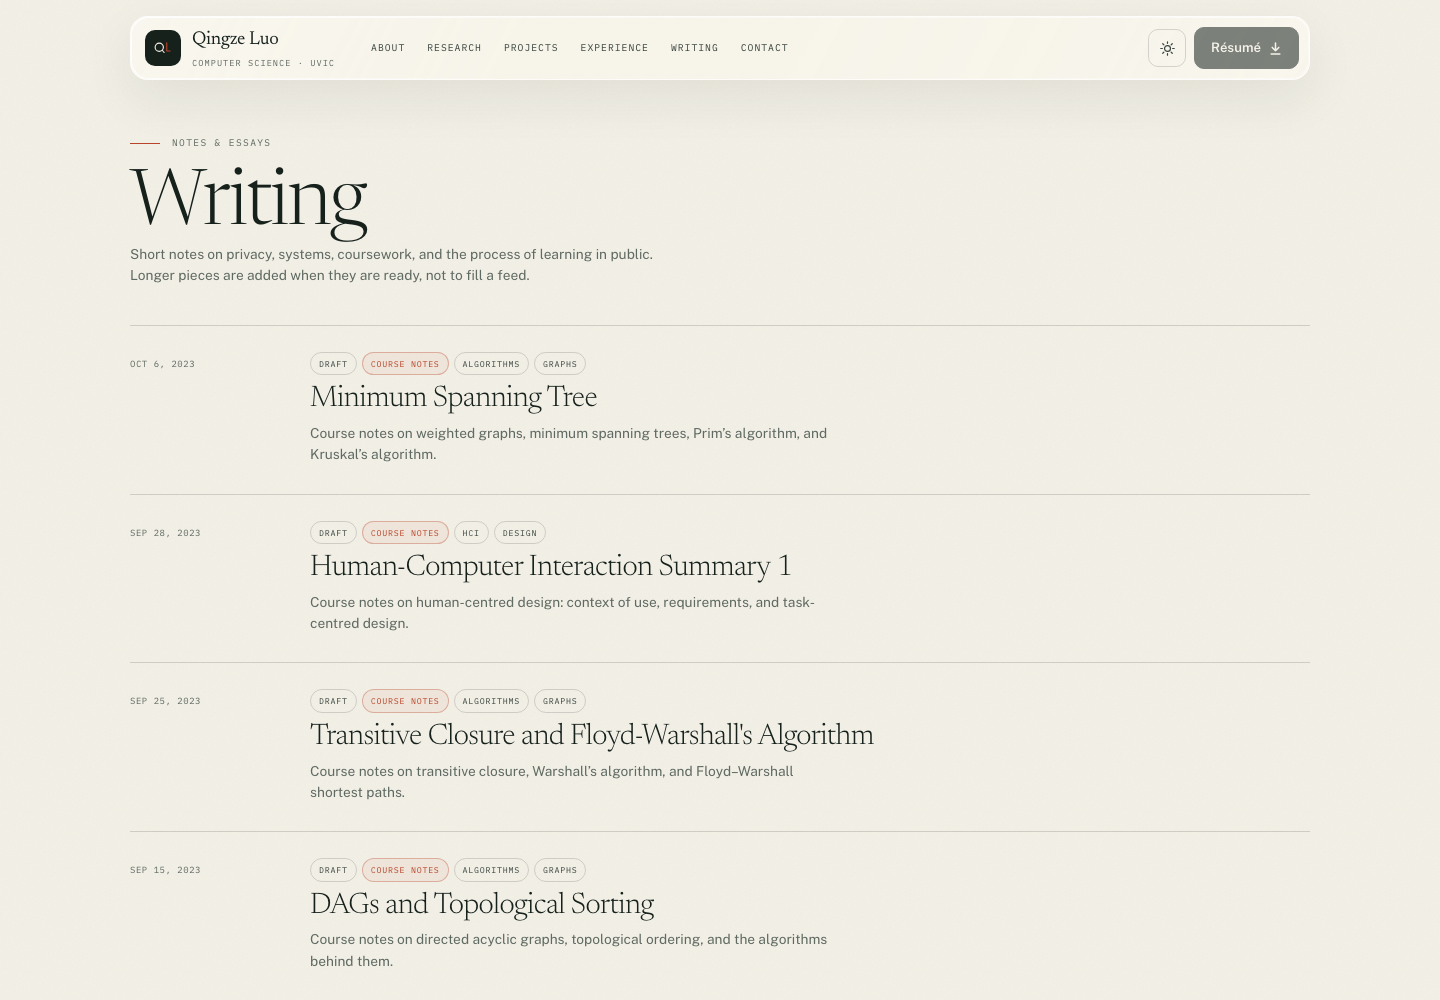
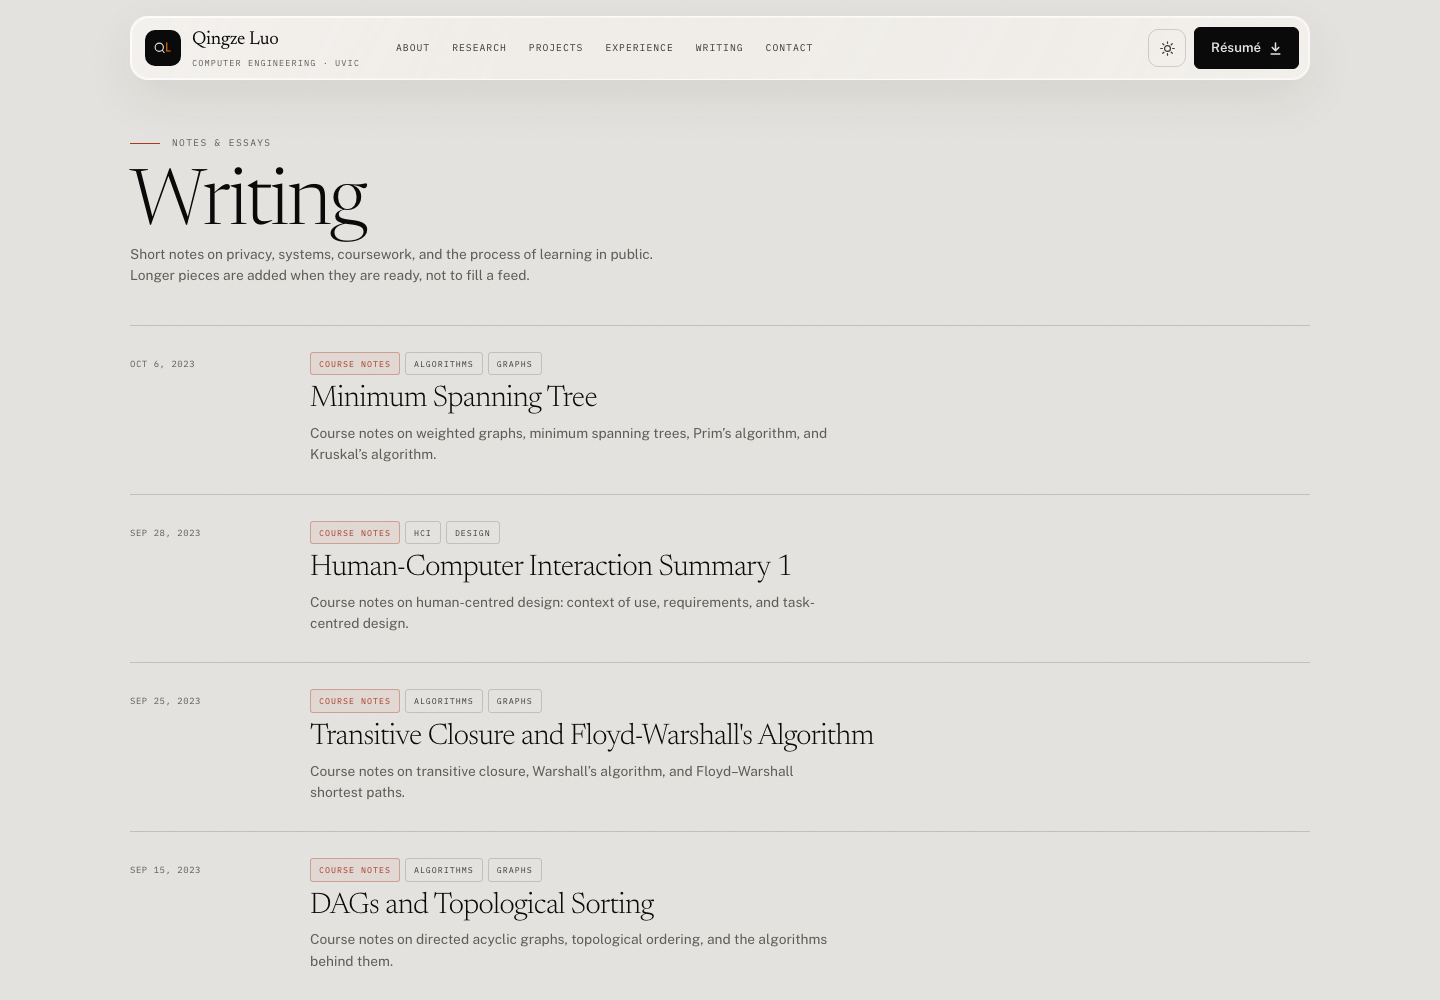
Publish the four 2023 course notes

diff --git a/src/content/blog/human-computer-interaction-summary-1.md b/src/content/blog/human-computer-interaction-summary-1.md
@@ -6,12 +6,12 @@ tags:
   - HCI
   - Design
 courseNotes: true
-draft: true
+draft: false
 ---
 
 ## In the Human-Centered design process
 
-After understanding and specify context of use, the specify user requirements:
+After understanding and specifying the context of use, specify the user requirements:
 
 - Functional requirements (what the interface will do)
 - Non-functional requirements (constraints)
@@ -27,7 +27,7 @@ After understanding and specify context of use, the specify user requirements:
 - Allows users to verify and contribute towards the development.
 - Overall advancing our goal to build usable system and one that meets the needs of people.
 
-## Requirements Gathering and communication:
+## Requirements gathering and communication:
 
 - Happens iteratively and could be gathered from different stages of HCD process.
 - Over a period of time, requirements could change completely. For example, our requirements from our smartphone today are very different from early phones such as landline phone and early cell phones.
@@ -37,7 +37,7 @@ After understanding and specify context of use, the specify user requirements:
 - Functional (what people need)
     1.  Describe what the product will do.
     2.  E.g., new video game
-    3.  Client wants a beginner level squash video game that supports signle or two-players.
+    3.  Client wants a beginner level squash video game that supports single or two players.
     4.  Has to capture player data continuously.
 - Non-functional (what people expect)
     1.  Describe the constraints (physical, logical, semantic, culture, technical) and aesthetics style.
@@ -74,8 +74,8 @@ After understanding and specify context of use, the specify user requirements:
 4. Say who the users are.  
     a. Helps the designer understand who will be using the system, how and their context of use.
 5. As a set, cover a range of possibilities.  
-    a. The potential users of the systems-primary occasional and least likely to use the system.  
-    b. Types of tasks – routine important but infrequent, unexpected, or rarely performed.
+    a. The potential users of the system: primary, occasional, and least likely to use it.  
+    b. Types of tasks — routine, important but infrequent, unexpected, or rarely performed.
 
 ## Which user groups will be addressed by the interface?
 

diff --git a/src/content/blog/dags-and-topological-sorting.md b/src/content/blog/dags-and-topological-sorting.md
@@ -6,7 +6,7 @@ tags:
   - Algorithms
   - Graphs
 courseNotes: true
-draft: true
+draft: false
 ---
 
 ## DAG
@@ -52,21 +52,21 @@ There are two commonly used algorithms for performing topological sorting on a D
 
     ```
     function topologicalSort(graph):
-    initialize an empty list for the topological order
-    initialize a set to keep track of visited nodes
+        order = []
+        visited = set()
 
         for each node in graph:
             if node is not visited:
-                visit(node, topological order, visited)
+                visit(node, order, visited)
 
-        return reverse of the topological order list
+        return reverse(order)
 
-    function visit(node, topological order, visited):
+    function visit(node, order, visited):
         mark node as visited
         for each neighbor of node:
-        if neighbor is not visited:
-        visit(neighbor, topological order, visited)
-        append node to the topological order list
+            if neighbor is not visited:
+                visit(neighbor, order, visited)
+        append node to order
     ```
 
 2. **Breadth-First Search (BFS) Algorithm**:
@@ -83,8 +83,8 @@ There are two commonly used algorithms for performing topological sorting on a D
 
     ```
     function topologicalSort(graph):
-    initialize an empty list for the topological order
-    initialize a queue for nodes with in-degrees of 0
+        order = []
+        queue = empty queue
 
         for each node in graph:
             if in-degree of node is 0:
@@ -92,13 +92,13 @@ There are two commonly used algorithms for performing topological sorting on a D
 
         while queue is not empty:
             node = dequeue(queue)
-            append node to topological order list
+            append node to order
             for each neighbor of node:
                 reduce in-degree of neighbor by 1
                 if in-degree of neighbor is 0:
                     enqueue(neighbor)
 
-        return topological order list
+        return order
     ```
 
 Both DFS and BFS-based algorithms will produce a valid topological order for a DAG. The choice between them depends on factors like performance and specific requirements of the problem.

diff --git a/src/content/blog/minimum-spanning-tree.md b/src/content/blog/minimum-spanning-tree.md
@@ -6,14 +6,14 @@ tags:
   - Algorithms
   - Graphs
 courseNotes: true
-draft: true
+draft: false
 ---
 
 ## Weighted Graph
 
 Before we get into Minimum Spanning Tree (MST), let’s get to know what is a weighted graph:
 
-- A weighted graph is a graph model where we associate weights (or costs) with each edge. That is, for each edge e, it has a numeric label associate with it, denote as w(e).
+- A weighted graph is a graph model where we associate weights (or costs) with each edge. That is, for each edge e, it has a numeric label associated with it, denoted w(e).
 
 That we will look at algorithms for solving three general problems of weighted graph:
 
@@ -26,7 +26,7 @@ That we will look at algorithms for solving three general problems of weighted g
 - Input of MST: A weighted, connected graph 𝐺 = (𝑉, 𝐸) consisting of vertices (or nodes), 𝑉, and edges, 𝐸, with edge weights.
 - Output: A minimum spanning tree (MST) 𝑇 = (𝑉, 𝐸𝑇) of 𝐺. That is, 𝑇 is a connected spanning subgraph of 𝐺 (𝐸𝑇 ⊆ 𝐸) such that 𝑇 is acyclic, and the total weight of 𝑇, is minimized.
 
-The real-life application of MST are:
+Real-life applications of MST include:
 
 1. Cluster analysis.
 
@@ -36,7 +36,7 @@ The real-life application of MST are:
 
 4. LDPC codes for error correction.
 
-5. Image registration with Renyi entropy.
+5. Image registration with Rényi entropy.
 
 6. Find road networks in satellite and aerial imagery.
 
@@ -44,13 +44,13 @@ The real-life application of MST are:
 
 8. Model locality of particle interactions in turbulent fluid flows.
 
-9. Autoconfig protocol for Ethernet bridging to avoid cycles in a network.
+9. Auto-config protocol for Ethernet bridging to avoid cycles in a network.
 
 10. Approximation algorithms for NP-hard problems (e.g., TSP, Steiner tree).
 
 11. Network design (communication, electrical, hydraulic, computer, road).
 
-    For more information, please go to: [http://www.ics.uci.edu/~eppstein/gina/mst.html](http://www.ics.uci.edu/~eppstein/gina/mst.html)
+    Further reading: [http://www.ics.uci.edu/~eppstein/gina/mst.html](http://www.ics.uci.edu/~eppstein/gina/mst.html)
 
 ## How to find the MST in a Graph G?
 

diff --git a/docs/open-questions.md b/docs/open-questions.md
@@ -19,6 +19,8 @@ reviewed. The site content has been reconciled with the résumé.
 7. **Deploy key** — added to the repository; `ssh -T git@github-qz-homepage` succeeds.
 8. **Push** — completed 2026-11-15; GitHub Actions deployed successfully. Live site:
    <https://qzkasoma-luo.github.io>.
+9. **Blog migration** — the four 2023 course notes are published with a “Course notes” label.
+10. **Pages setting** — the owner switched the Pages source to GitHub Actions on 2026-11-15.
 
 ## Still open
 
@@ -28,9 +30,6 @@ reviewed. The site content has been reconciled with the résumé.
    résumé does not list it, so it stays an unpublished draft.
 3. **RAG demo** — what it retrieves, the stack, whether there is a public repo, and any
    evaluation. It is currently “In progress” with details intentionally sparse.
-4. **Blog migration** — publish the four 2023 course notes, keep them as drafts, or start
-   fresh? The drafts are in `src/content/blog/` and are excluded from production.
-5. **Pages setting** — done; the GitHub Actions workflow deploys successfully.
 
 ## Content guardrails
 

diff --git a/docs/content-fact-sheet.md b/docs/content-fact-sheet.md
@@ -64,9 +64,9 @@ résumé and direct owner confirmation are the only two bases for that flag.
 | 2023-09-28 | Human-Computer-Interaction Summary 1 | Course notes |
 | 2023-10-06 | Minimum Spanning Tree | Course notes |
 
-Migration decision is still open. Four drafts exist in `src/content/blog/`
-(`draft: true`, `courseNotes: true`) so the blog layout and RSS can be tested. They stay out
-of production until the owner says to publish them.
+The owner asked to migrate them. All four were published on 2026-11-15 with
+`draft: false` and `courseNotes: true`; they are labelled “Course notes” in the blog index
+and included in the RSS feed.
 
 ## Wording rules
 
@@ -88,4 +88,3 @@ of production until the owner says to publish them.
 - CUDA project: team size and Qingze’s exact individual contribution. The site only labels
   it as a group project and does not attribute the team result to one person.
 - RAG demo: what it retrieves, stack, public repo, evaluation.
-- Blog migration: publish the four course notes, keep them as drafts, or start fresh.

diff --git a/README.md b/README.md
@@ -10,8 +10,8 @@ Live site: <https://qzkasoma-luo.github.io>
 > system is tuned toward the `dsh-startup-screen` reference, and the public résumé PDF is
 > in place. Experience, research, and project content follow the résumé; cross-browser,
 > link, privacy, and accessibility checks pass. Lighthouse mobile is 99; desktop is 87 with
-> the 1.78s opening (94 with the opening skipped). The blog archive decision is the remaining
-> content choice.
+> the 1.78s opening (94 with the opening skipped). The four 2023 course notes are migrated
+> and published with a “Course notes” label.
 
 ## Stack
 

diff --git a/src/content/blog/transitive-closure-floyd-warshall.md b/src/content/blog/transitive-closure-floyd-warshall.md
@@ -6,7 +6,7 @@ tags:
   - Algorithms
   - Graphs
 courseNotes: true
-draft: true
+draft: false
 ---
 
 ## Transitive Closure
